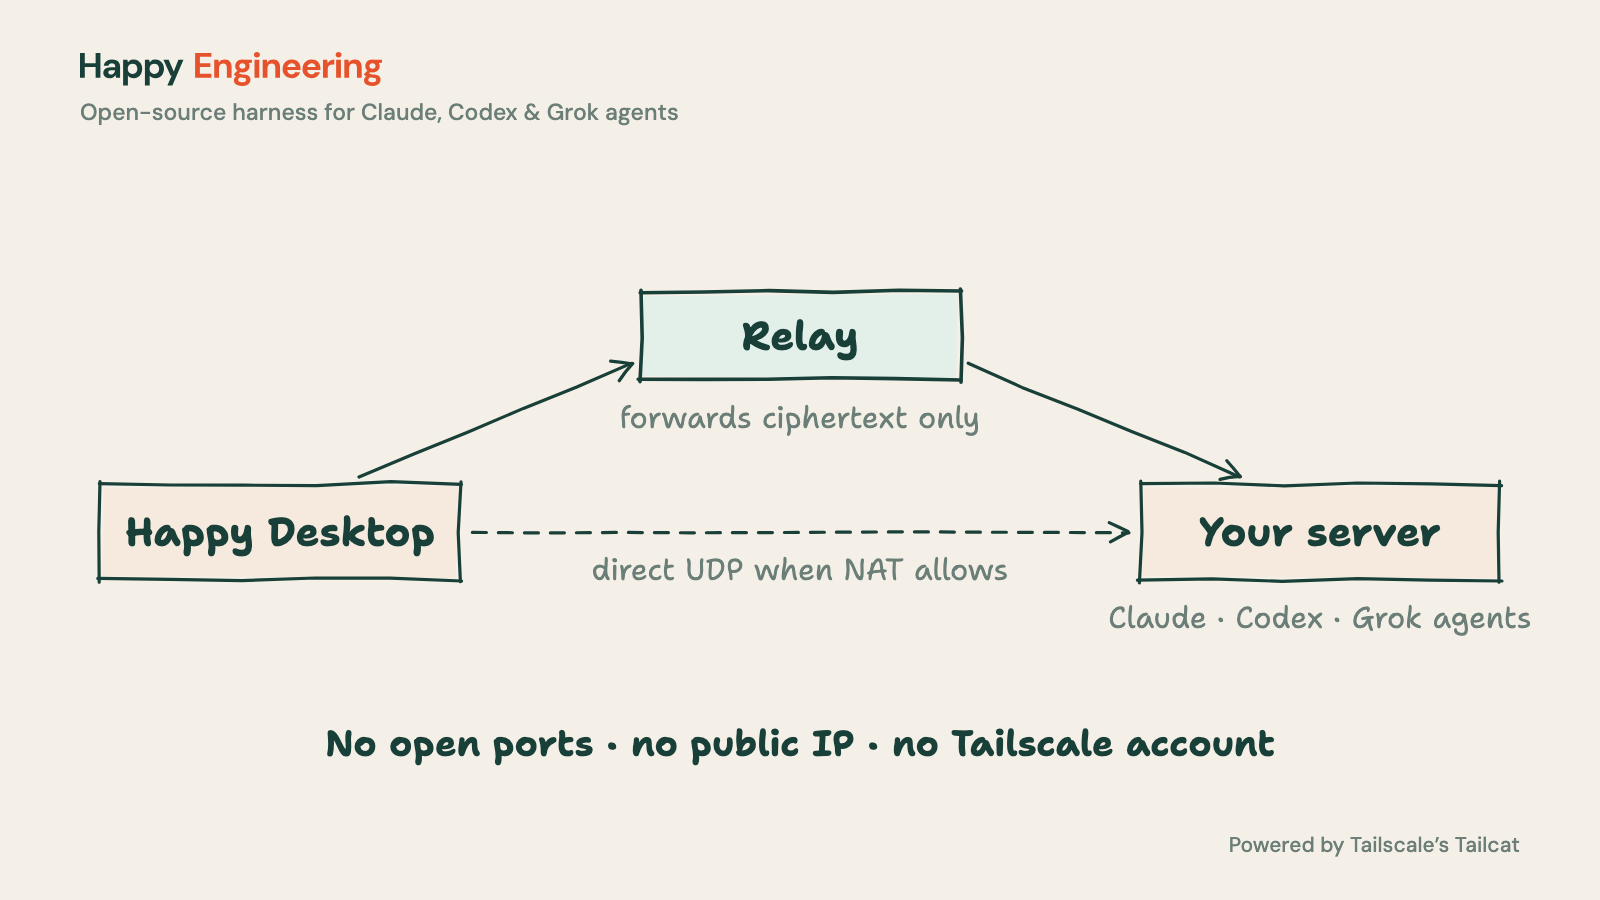
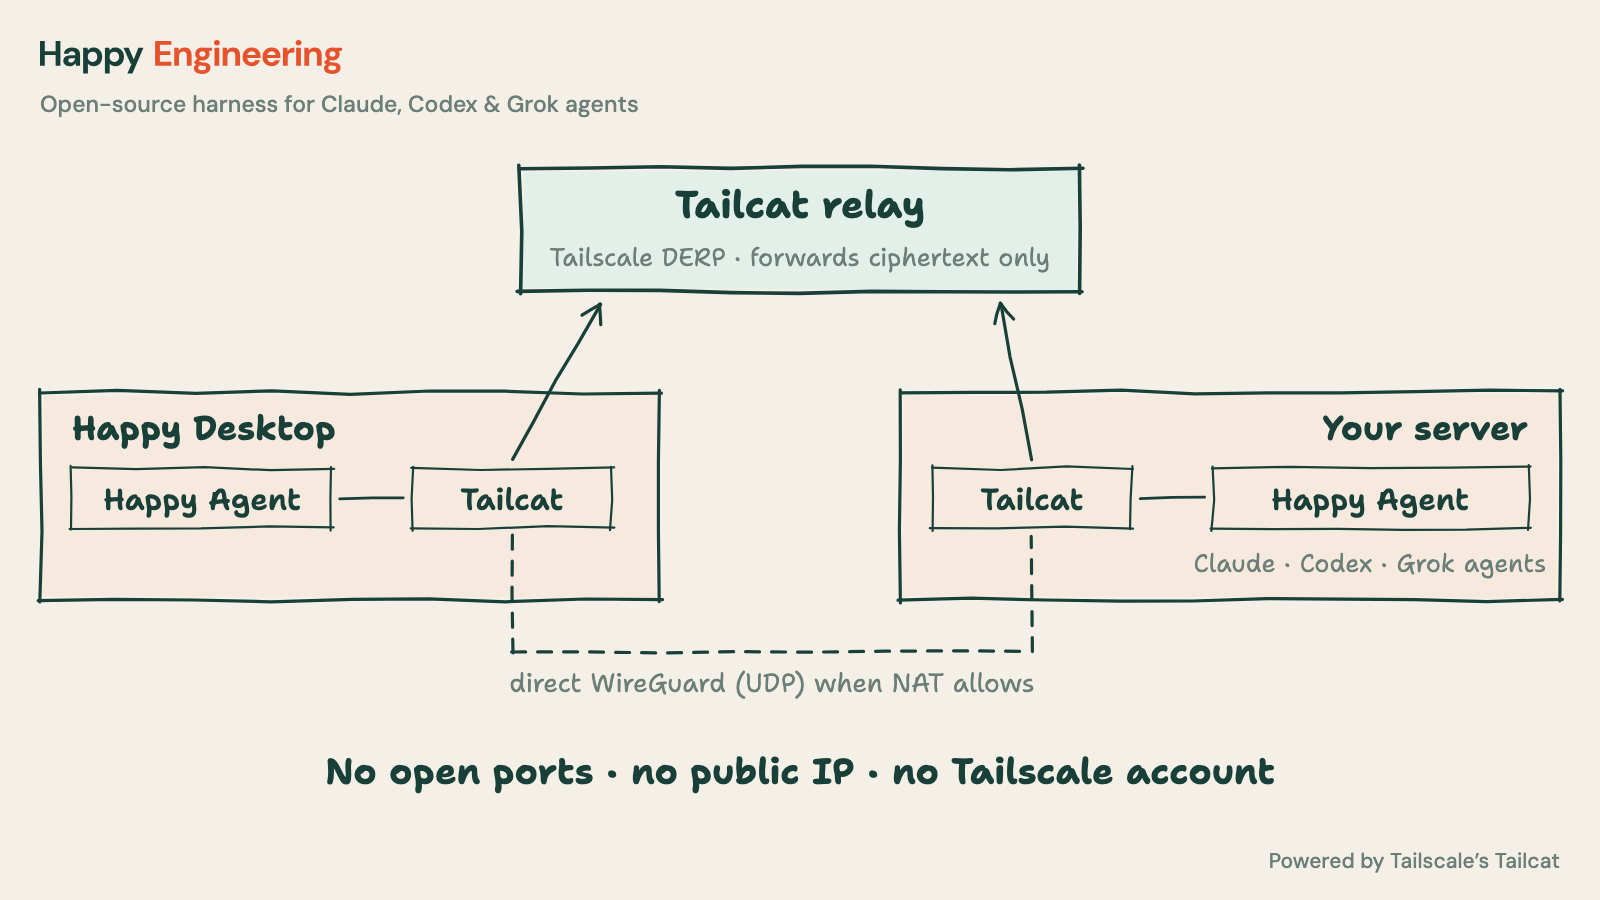
Tailcat X image: the Tailcat relay named as Tailscale's DERP, and Tailcat beside Happy Agent on each machine with the direct WireGuard path between them

diff --git a/notes/diagram-pngs.py b/notes/diagram-pngs.py
@@ -6,6 +6,7 @@
 # - public/img/<name>-16x9.png: 1600x900. A tall diagram is laid out in two columns, its sequence
 #   on the left and its notes on the right, so the text stays readable as a thumbnail.
 # - public/img/tailcat-x.png: a simpler Tailcat picture for the post, with the brand lockup.
+#   tailcat_x() draws it; it renders alone with: python3 notes/diagram-pngs.py tailcat-x
 #
 # Needs Python Playwright with Chromium (pip install playwright; playwright install chromium);
 # CHROMIUM=/path/to/chrome overrides the browser. Fonts download once into notes/og/.fonts/,
@@ -15,6 +16,7 @@ import math
 import os
 import random
 import re
+import sys
 import urllib.request
 from pathlib import Path
 
@@ -127,31 +129,50 @@ def arrow(x1, y1, x2, y2, c=INK, w=1.6, dash=None):
     return line(x1, y1, x2, y2, w, c, .6, dash) + line(l[0], l[1], x2, y2, w, c, .2) + line(r[0], r[1], x2, y2, w, c, .2)
 
 
+def chip(x, y, w, s):
+    """A process inside a machine: its name in a thin outline, no fill."""
+    return rect(x, y, w, 30, 1.1, INK) + "\n" + text(x + w / 2, y + 21, s, 15, INK, 600)
+
+
 def tailcat_x(browser, head):
-    """Tailcat for X, drawn in 800x450 units and rendered at 2x: three boxes, three paths, one line of claims."""
+    """Tailcat for X, drawn in 800x450 units and rendered at 2x. On each machine Happy Agent runs
+    Tailcat as a child process: `tailcat socks` beside Happy Desktop, `tailcat serve` on the server."""
     wordmark = (ROOT / "public/brand/happy-engineering-inline-light.svg").read_text()
     wordmark = re.sub(r'width="[\d.]+" height="[\d.]+"', 'width="151" height="17"', wordmark, count=1)
     o = []
-    o.append(f'<g transform="translate(40 26)">{wordmark}</g>')
-    o.append(text(40, 60, "Open-source harness for Claude, Codex & Grok agents", 11.5, MUTED, 500, "start", "DM Sans"))
+    o.append(f'<g transform="translate(20 20)">{wordmark}</g>')
+    o.append(text(20, 56, "Open-source harness for Claude, Codex & Grok agents", 11.5, MUTED, 500, "start", "DM Sans"))
 
-    o.append(rect(320, 146, 160, 44, 1.8, INK, MINT))
-    o.append(text(400, 175, "Relay", 20, INK, 700))
-    o.append(text(400, 214, "forwards ciphertext only", 15, MUTED))
+    # Tailscale runs the relay; it only forwards.
+    o.append(rect(260, 84, 280, 62, 1.8, INK, MINT))
+    o.append(text(400, 109, "Tailcat relay", 19, INK, 700))
+    o.append(text(400, 133, "Tailscale DERP · forwards ciphertext only", 12.5, MUTED))
 
-    o.append(rect(50, 242, 180, 48, 1.6, INK, SAND))
-    o.append(text(140, 273, "Happy Desktop", 20, INK, 700))
-    o.append(rect(570, 242, 180, 48, 1.6, INK, SAND))
-    o.append(text(660, 273, "Your server", 20, INK, 700))
-    o.append(text(660, 314, "Claude · Codex · Grok agents", 15, MUTED))
+    o.append(rect(20, 196, 310, 104, 1.6, INK, SAND))
+    o.append(text(36, 220, "Happy Desktop", 17, INK, 700, "start"))
+    o.append(chip(36, 234, 130, "Happy Agent"))
+    o.append(chip(206, 234, 100, "Tailcat"))
 
-    o.append(arrow(180, 238, 316, 182, INK, 1.6))
-    o.append(arrow(484, 182, 620, 238, INK, 1.6))
-    o.append(arrow(236, 266, 564, 266, INK, 1.6, "7 6"))
-    o.append(text(400, 290, "direct UDP when NAT allows", 15, MUTED))
+    o.append(rect(450, 196, 330, 104, 1.6, INK, SAND))
+    o.append(text(764, 220, "Your server", 17, INK, 700, "end"))
+    o.append(chip(466, 234, 100, "Tailcat"))
+    o.append(chip(606, 234, 158, "Happy Agent"))
+    o.append(text(685, 286, "Claude · Codex · Grok agents", 12.5, MUTED))
 
-    o.append(text(400, 378, "No open ports · no public IP · no Tailscale account", 18, INK, 700))
-    o.append(text(760, 426, "Powered by Tailscale’s Tailcat", 10.5, MUTED, 500, "end", "DM Sans"))
+    # Happy Agent talks through its own Tailcat.
+    o.append(line(170, 249, 202, 249, 1.4, INK, .3))
+    o.append(line(570, 249, 602, 249, 1.4, INK, .3))
+    # Both sides dial out to the relay.
+    o.append(arrow(256, 230, 300, 152, INK, 1.6))
+    o.append(arrow(516, 230, 500, 152, INK, 1.6))
+    # The direct path, Tailcat to Tailcat.
+    o.append(line(256, 268, 256, 326, 1.6, INK, .4, "7 6"))
+    o.append(line(256, 326, 516, 326, 1.6, INK, .6, "7 6"))
+    o.append(line(516, 326, 516, 268, 1.6, INK, .4, "7 6"))
+    o.append(text(386, 346, "direct WireGuard (UDP) when NAT allows", 13, MUTED))
+
+    o.append(text(400, 392, "No open ports · no public IP · no Tailscale account", 18, INK, 700))
+    o.append(text(780, 434, "Powered by Tailscale’s Tailcat", 10.5, MUTED, 500, "end", "DM Sans"))
 
     svg = ('<svg xmlns="http://www.w3.org/2000/svg" width="800" height="450" viewBox="0 0 800 450" '
            "font-family=\"'Shantell Sans', cursive\">" + "\n".join(o) + "</svg>")
@@ -162,9 +183,12 @@ def main():
     head = fonts_css()
     with sync_playwright() as playwright:
         browser = playwright.chromium.launch(executable_path=os.environ.get("CHROMIUM") or None)
+        only = sys.argv[1:]
         for name, split in DIAGRAMS.items():
-            export(browser, head, name, split)
-        tailcat_x(browser, head)
+            if not only or name in only:
+                export(browser, head, name, split)
+        if not only or "tailcat-x" in only:
+            tailcat_x(browser, head)
         browser.close()
 
 
